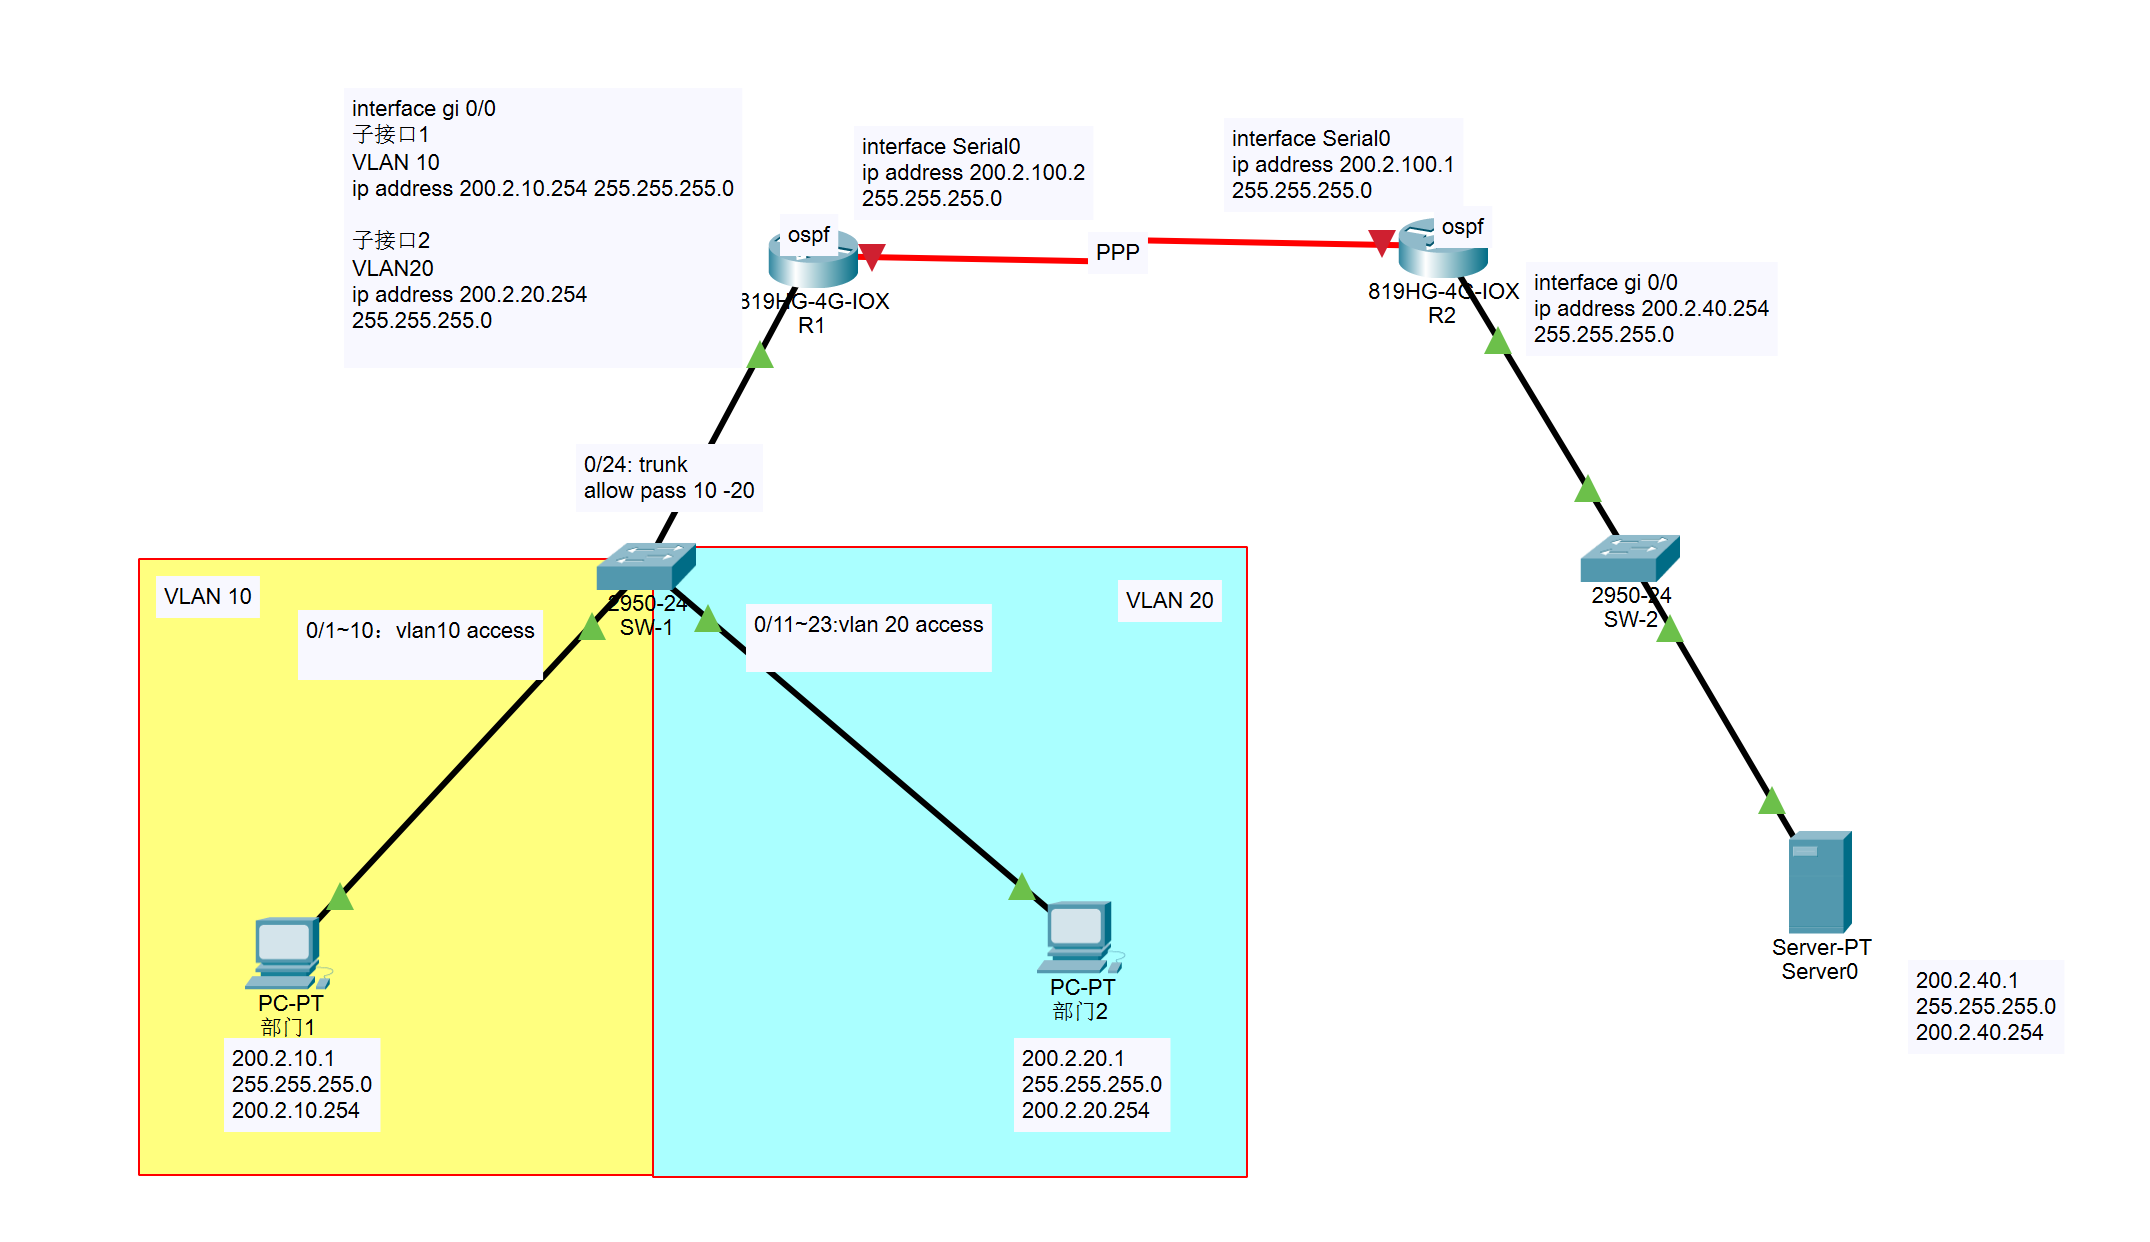
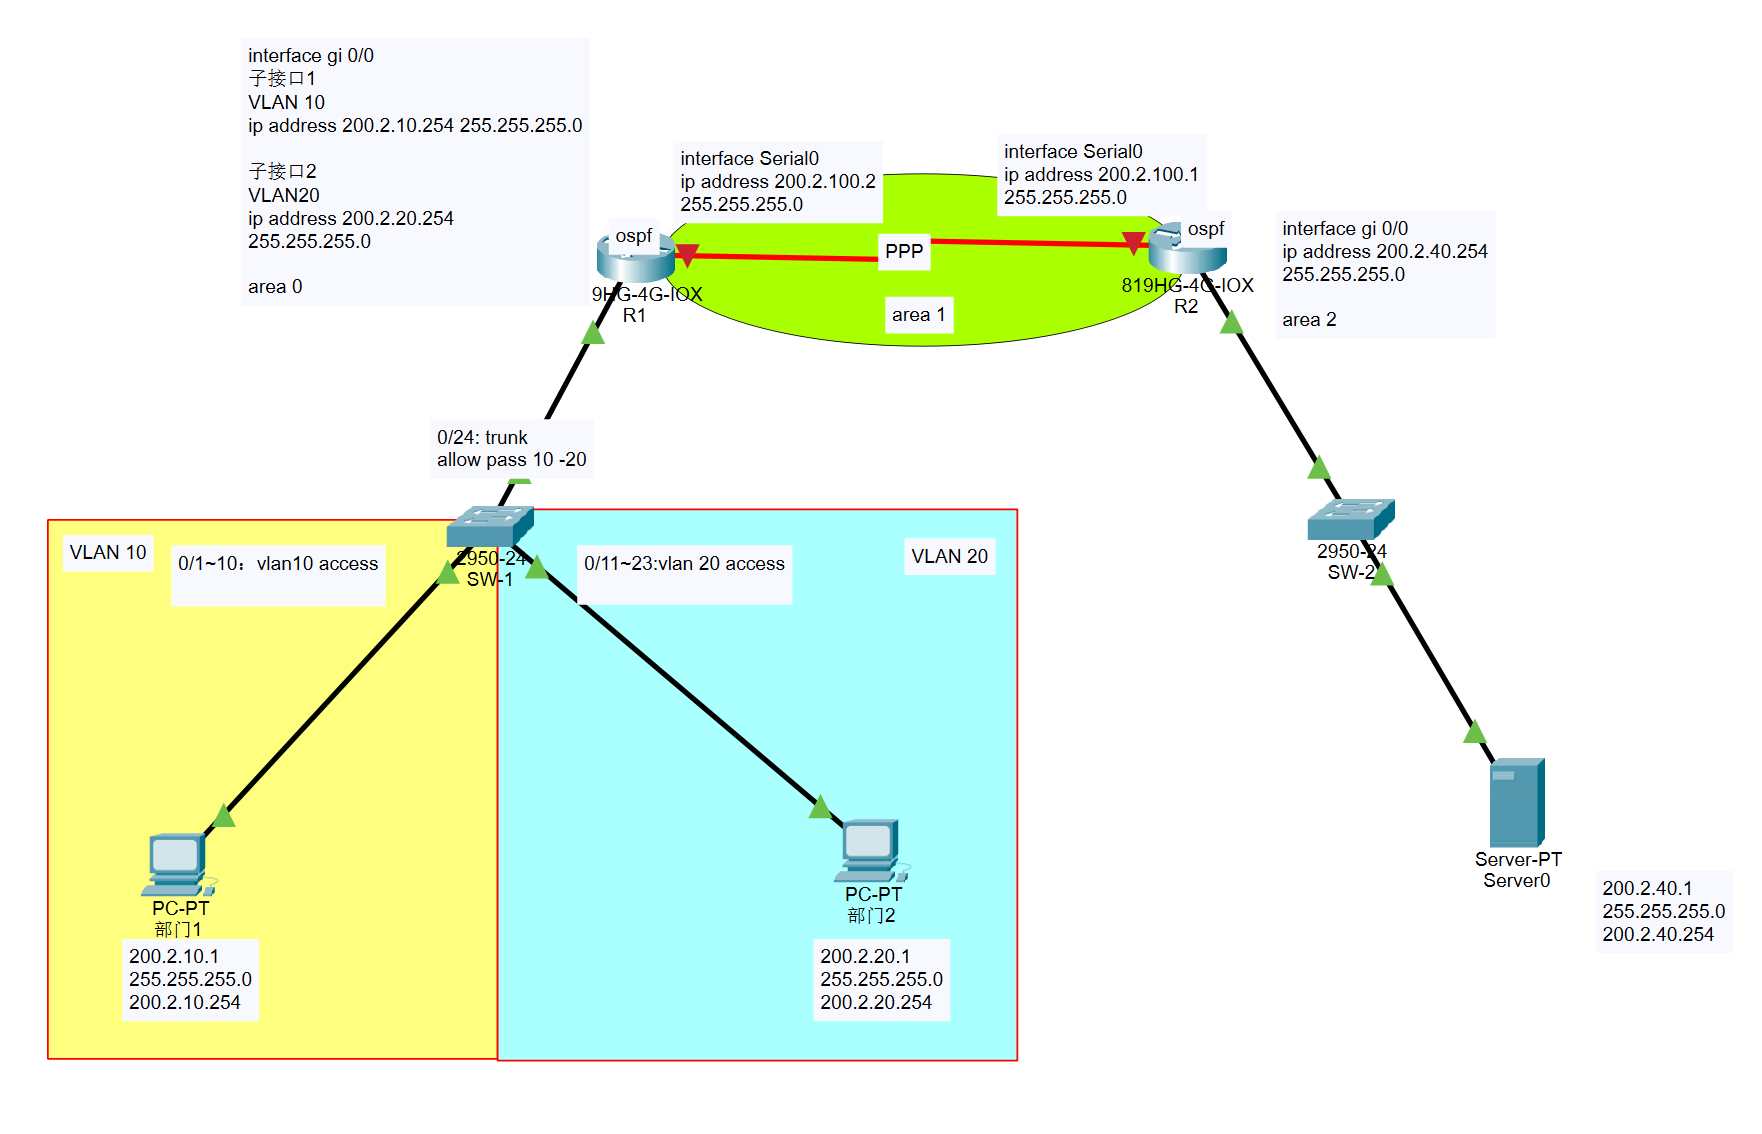
Site updated: 2024-12-02 18:42:03

diff --git a/2024/11/30/记计网的一次课设/index.html b/2024/11/30/记计网的一次课设/index.html
@@ -27,7 +27,7 @@
 <meta property="og:locale" content="en_US">
 <meta property="og:image" content="http://example.com/images/network_work.png">
 <meta property="article:published_time" content="2024-11-30T13:12:54.000Z">
-<meta property="article:modified_time" content="2024-11-30T17:31:39.302Z">
+<meta property="article:modified_time" content="2024-12-02T10:37:24.245Z">
 <meta property="article:author" content="John Doe">
 <meta property="article:tag" content="ICT">
 <meta property="article:tag" content="计算机网络">
@@ -435,8 +435,8 @@
     
         <span class="article-date article-meta-item">
             <i class="fa-regular fa-wrench"></i>&nbsp;
-            <span class="desktop">2024-12-01 01:31:39</span>
-            <span class="mobile">2024-12-01 01:31:39</span>
+            <span class="desktop">2024-12-02 18:37:24</span>
+            <span class="mobile">2024-12-02 18:37:24</span>
             <span class="hover-info">Updated</span>
         </span>
     
@@ -511,7 +511,14 @@
 <p>这次实验使用了两台路由器，两台交换机，三台主机，其中一台主机用于模拟服务器。  </p>
 <p>由两台主机模拟两个部门，需要实现两个部门之间的通信和两个部门与服务器之间的通信。</p>
 <p>将两个主机ip设置为不同网段的公网IP(实验要求不能使用可复用IP地址)，通过交换机SW-1连接两台主机，此时交换机为三层交换机，将交换机0&#x2F;1~10端口划分为VLAN10，交换机0&#x2F;11~23端口划分为VLAN20，端口均设置为access，对0&#x2F;24口配置为trunk口并放行VLAN10和VLAN20，此端口连接 路由器R1 0&#x2F;0端口，对 R1 0&#x2F;0端口配置两个子接口IP设置为两个部门的网关，此时路由R1为SW-1的单臂路由，R1的Serial0口和R2的Serial0端口连接，R2的Serial0端口连接，均对两台路由配置ospf协议和ppp协议实现两个路由间通信，R2 0&#x2F;0端口配置IP为server的网关并连接交换机SW-2，交换机SW-2连接server。</p>
+<h4 id="设备介绍"><a href="#设备介绍" class="headerlink" title="设备介绍"></a>设备介绍</h4><h4 id="配置命令"><a href="#配置命令" class="headerlink" title="配置命令"></a>配置命令</h4><p>SW-1:</p>
+<div class="highlight-container" data-rel="Plaintext"><figure class="iseeu highlight plaintext"><table><tr><td class="gutter"><pre><span class="line">1</span><br><span class="line">2</span><br><span class="line">3</span><br><span class="line">4</span><br><span class="line">5</span><br><span class="line">6</span><br><span class="line">7</span><br><span class="line">8</span><br><span class="line">9</span><br><span class="line">10</span><br><span class="line">11</span><br><span class="line">12</span><br><span class="line">13</span><br><span class="line">14</span><br><span class="line">15</span><br><span class="line">16</span><br><span class="line">17</span><br><span class="line">18</span><br><span class="line">19</span><br><span class="line">20</span><br></pre></td><td class="code"><pre><span class="line">vlan 10</span><br><span class="line">exit</span><br><span class="line"></span><br><span class="line">vlan 20</span><br><span class="line">exit</span><br><span class="line"></span><br><span class="line">interface range gigabitEthernet 0/1 - 10</span><br><span class="line">switchport mode access</span><br><span class="line">switchport access vlan 10</span><br><span class="line">exit</span><br><span class="line"></span><br><span class="line">interface range gigabitEthernet 0/11 - 0/23</span><br><span class="line">switchport mode access</span><br><span class="line">switchport access vlan 20</span><br><span class="line">exit</span><br><span class="line"></span><br><span class="line">interface gigabitEthernet 0/24</span><br><span class="line">switchport mode trunk</span><br><span class="line">switchport trunk allowed vlan 10,20</span><br><span class="line">exit</span><br></pre></td></tr></table></figure></div>
 
+<p>R1:</p>
+<div class="highlight-container" data-rel="Plaintext"><figure class="iseeu highlight plaintext"><table><tr><td class="gutter"><pre><span class="line">1</span><br><span class="line">2</span><br><span class="line">3</span><br><span class="line">4</span><br><span class="line">5</span><br><span class="line">6</span><br><span class="line">7</span><br><span class="line">8</span><br><span class="line">9</span><br><span class="line">10</span><br><span class="line">11</span><br><span class="line">12</span><br><span class="line">13</span><br><span class="line">14</span><br><span class="line">15</span><br><span class="line">16</span><br><span class="line">17</span><br><span class="line">18</span><br><span class="line">19</span><br><span class="line">20</span><br><span class="line">21</span><br><span class="line">22</span><br><span class="line">23</span><br><span class="line">24</span><br></pre></td><td class="code"><pre><span class="line">interface GigabitEthernet 0/0.1</span><br><span class="line">encapsulation dot1Q 10</span><br><span class="line">ip address 200.2.10.254 255.255.255.0</span><br><span class="line">exit</span><br><span class="line"></span><br><span class="line">interface GigabitEthernet 0/0.2</span><br><span class="line">encapsulation dot1Q 20</span><br><span class="line">ip address 200.2.20.254 255.255.255.0</span><br><span class="line">exit</span><br><span class="line"></span><br><span class="line">interface Serial0</span><br><span class="line">ip address 200.2.100.2 255.255.255.0</span><br><span class="line">exit</span><br><span class="line"></span><br><span class="line">router ospf 1</span><br><span class="line">network 200.2.10.0 0.0.0.255 area 0</span><br><span class="line">network 200.2.20.0 0.0.0.255 area 0</span><br><span class="line">network 200.2.100.0 0.0.0.255 area 1</span><br><span class="line">exit</span><br><span class="line"></span><br><span class="line">interface Serial0</span><br><span class="line">encapsulation ppp</span><br><span class="line">ppp authentication chap</span><br><span class="line">username R2 password password</span><br></pre></td></tr></table></figure></div>
+
+<p>R2:</p>
+<div class="highlight-container" data-rel="Plaintext"><figure class="iseeu highlight plaintext"><table><tr><td class="gutter"><pre><span class="line">1</span><br><span class="line">2</span><br><span class="line">3</span><br><span class="line">4</span><br><span class="line">5</span><br><span class="line">6</span><br><span class="line">7</span><br><span class="line">8</span><br><span class="line">9</span><br><span class="line">10</span><br><span class="line">11</span><br><span class="line">12</span><br><span class="line">13</span><br><span class="line">14</span><br></pre></td><td class="code"><pre><span class="line">interface Serial0</span><br><span class="line">ip address 200.2.100.1 255.255.255.0</span><br><span class="line"></span><br><span class="line">interface GigabitEthernet 0/0</span><br><span class="line">ip address 200.2.40.254 255.255.255.0</span><br><span class="line"></span><br><span class="line">router ospf 1</span><br><span class="line">network 200.2.100.0 0.0.0.255 area 1</span><br><span class="line">network 200.2.40.0 0.0.0.255 area 2</span><br><span class="line"></span><br><span class="line">interface Serial0</span><br><span class="line">encapsulation ppp</span><br><span class="line">ppp authentication chap</span><br><span class="line">username R1 password password</span><br></pre></td></tr></table></figure></div>
 		</div>
 
 		
@@ -525,7 +532,7 @@
         
             <li>
                 <strong>Updated at
-                    :</strong> 2024-12-01 01:31:39
+                    :</strong> 2024-12-02 18:37:24
             </li>
         
         <li>
